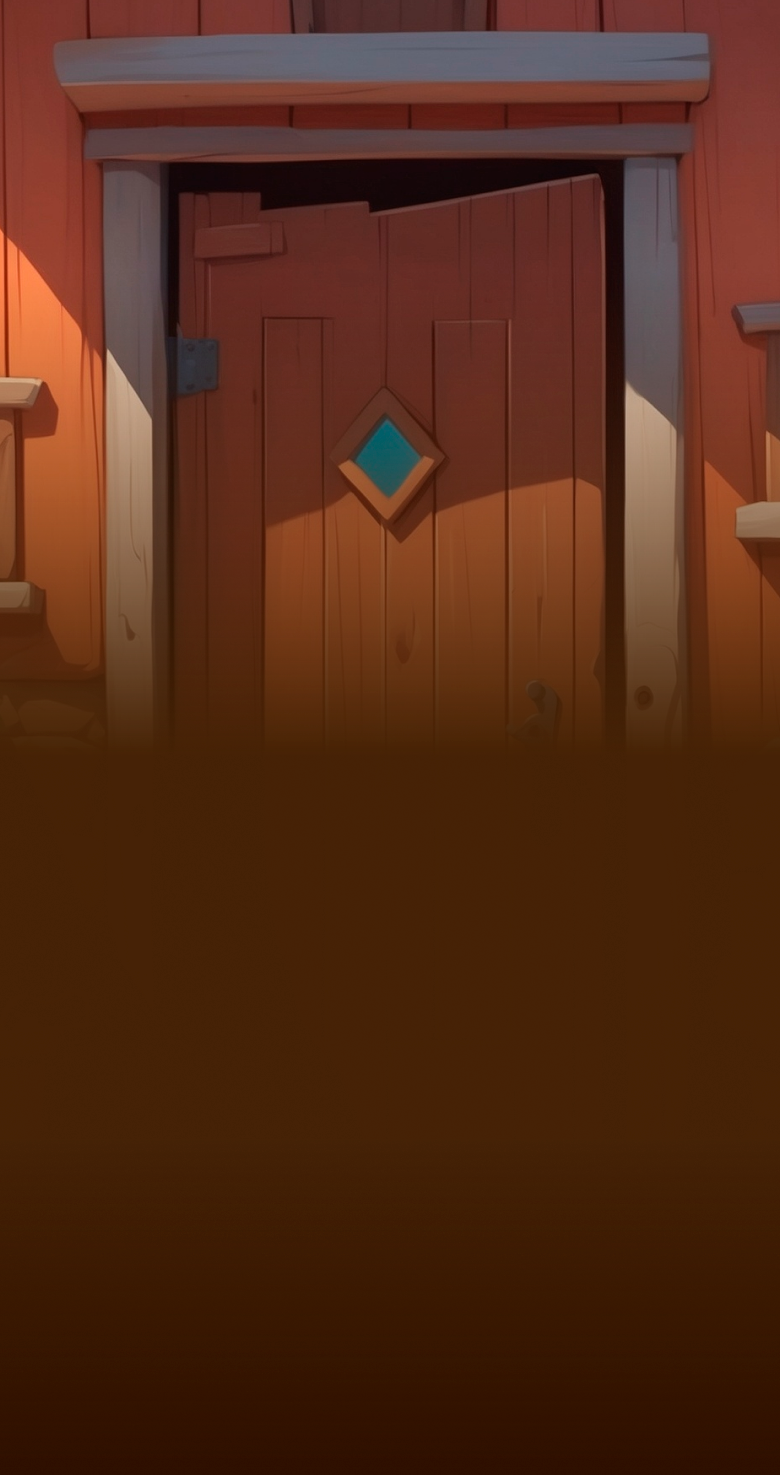
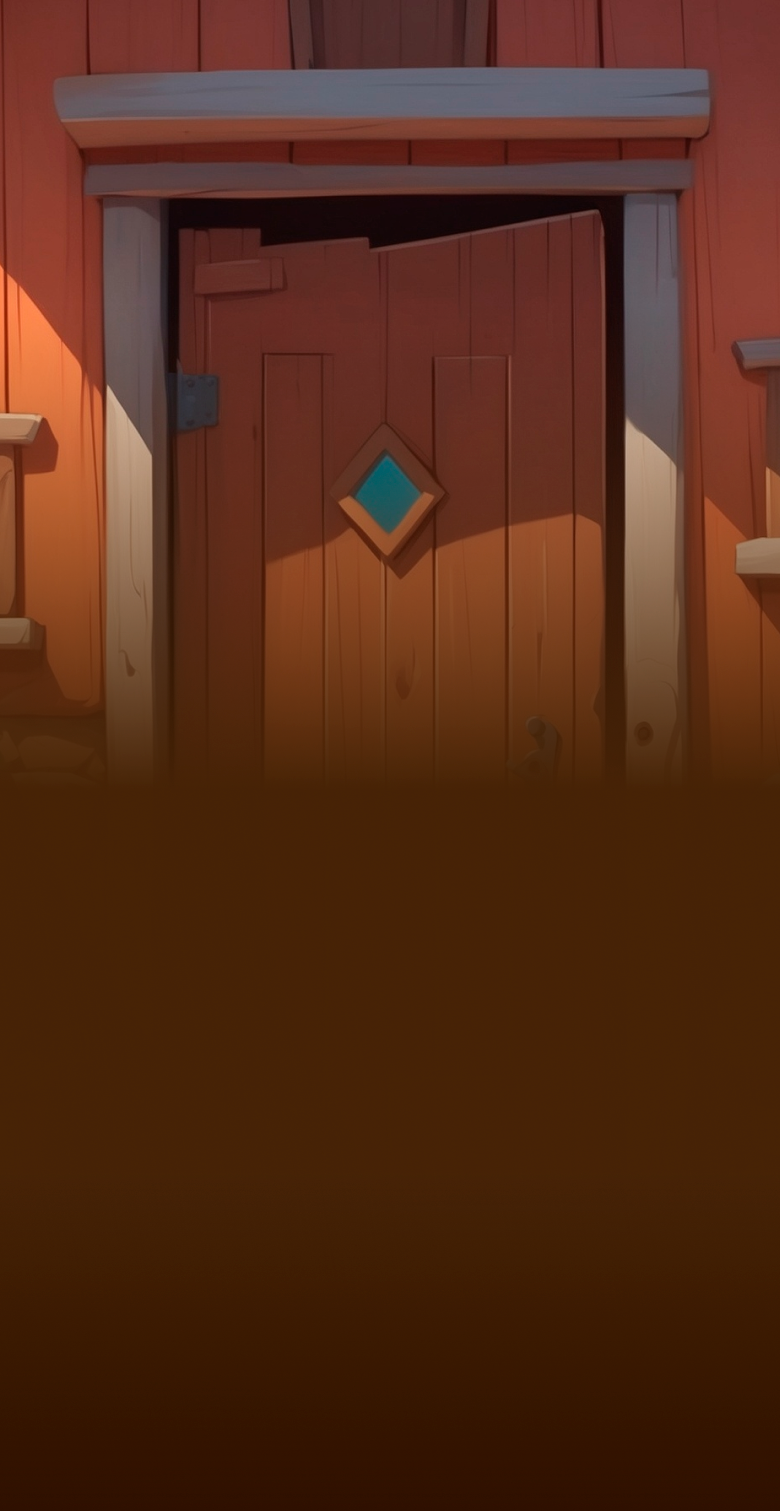
transaction history page finished, added deposit page and withdraw page (work in progress)

diff --git a/website/static/css/style.css b/website/static/css/style.css
@@ -269,12 +269,31 @@
         margin-top: 2%;
     }
     #storage-page {
-        background-image: url(../img/storage-bg.png);
+        background-image: url(../img/c1fc20933dd6265e0c9f0cec8ddc7a6d.jfif);
         background-position: center;
         background-size: cover;
         background-repeat: no-repeat;
         padding: 5% 0;
         position: relative;
+    }
+    .storage-page-gradient {
+        position: absolute;
+        content: '';
+        top: 0;
+        bottom: 0;
+        left: 0;
+        right: 0;
+        background: linear-gradient(to bottom, rgba(65, 40, 16, 0) 50%, rgba(65, 40, 16, 1) 100%);
+        height: 50vh;
+    }
+    .storage-page-gradient-2nd {
+        position: absolute;
+        content: '';
+        top: 49vh;
+        bottom: 0;
+        left: 0;
+        right: 0;
+        background-color: rgba(65, 40, 16, 1);
     }
     .storage-nav {
         display: flex;
@@ -549,6 +568,7 @@
         width: 43%;
         position: relative;
         padding: 4% 3%;
+        height: 17vh;
     }
     /* .products li::before {
         content: '';
@@ -568,7 +588,7 @@
         position: absolute;
     }
     .market-buy-container {
-        margin-top: 60%;
+        margin-top: auto;
         z-index: 2;
         width: 100%;
         justify-content: space-between;
@@ -598,6 +618,7 @@
     #storage-page footer {
         position: relative;
         z-index: 2;
+        margin: 0 5%;
     }
     .chicken-market {
         display: none
@@ -1247,7 +1268,7 @@
     .nftmarket-active {
         display: block;
     }
-    #wallet-page {
+    #wallet-page, #transaction-history-page, #withdraw-page, #deposit-page {
         background-color: #412810;
     }
     .wallet-navigation {
@@ -1378,6 +1399,180 @@
         height: 33vh;
         overflow-y: scroll;
         display: none; 
+    }
+    #transaction-history-page > header > h2 {
+        font-size: 24px;
+        font-weight: 300;
+        text-align: center;
+    }
+    #transaction-history-page > header > nav {
+        display: flex;
+        justify-content: space-around;
+    }
+    .transaction-history-switch {
+        color: white;
+        opacity: 0.6;
+        font-weight: 200;
+        font-size: 14px;
+        width: 50%;
+        text-align: center;
+        border-bottom: 1px solid rgba(255, 255, 255, 0.6);
+        padding: 1% 0;
+    }
+    .transaction-history-switch-active {
+        opacity: 1;
+    }
+    .transaction-history-general > ul {
+        margin: 0;
+        padding: 0;
+    }
+    .transaction-history-general > ul > li {
+        list-style-type: none;
+        padding: 2% 0%;
+        border-bottom: 1px solid rgba(255, 255, 255, 0.2);
+    }
+    .transaction-history-deposit-option {
+        display: flex;
+        justify-content: space-between;
+        align-items: center;
+    }
+    .transaction-history-deposit-option h2 {
+        margin: 0;
+        font-weight: 200;
+        margin-bottom: 2%;
+        font-size: 16px;
+    }
+    .transaction-history-deposit-option p {
+        font-weight: 200;
+        font-size: 10px;
+    }
+    .transaction-history-deposit-option h3 {
+        color: rgba(255, 255, 255, 0.6);
+        font-size: 16px;
+        font-weight: 200;
+    }
+    .transaction-history-general li > div:last-of-type {
+        display: flex;
+        justify-content: space-between;
+        align-items: center;
+        margin-top: 3%;
+    }
+    .transaction-history-general .token-text-container {
+        margin-top: 0;
+    }
+    .transaction-status {
+        font-size: 12px;
+        font-weight: 300;
+        background-color: rgba(254, 136, 28, 0.1);
+        padding: 2% 2%;
+        border-radius: 4px;
+    }
+    .transaction-outcome span {
+        color: #FFFFFF;
+        font-size: 14px;
+    }
+    .transaction-outcome img {
+        width: 25px;
+        height: 25px;
+    }
+    .transaction-income img {
+        width: 25px;
+        height: 25px;
+    }
+    .transaction-income span {
+        color: #FFFFFF;
+        font-size: 14px;
+    }
+    .transaction-income {
+        background-color: rgba(254, 136, 28, 0.1);
+        padding: 1.5% 2%;
+        border-radius: 4px;
+        width: 20%;
+    }
+    .transaction-history-general {
+        background-color: rgba(254, 136, 28, 0.1);
+        border-radius: 16px;
+        padding: 5% 5%;
+        margin-top: 5%;
+        height: 67vh;
+        overflow-y: scroll;
+        display: none;
+    }
+    .transaction-history-general-active {
+        display: block;
+    }
+    .buy-energy-container {
+        height: 58vh;
+        overflow-y: scroll;
+    }
+    .energy-boost {
+        background: #412810;
+        padding: 4% 4%;
+        border-radius: 16px;
+        box-shadow: inset 0px 1px 2px rgba(255, 255, 255, 0.4), 0px 2px 4px 0px rgba(0, 0, 0, 0.3);
+        width: 90%;
+        z-index: 2;
+        position: relative;
+    }
+    .energy-switch-switcher li:first-of-type {
+        margin-bottom: 1%;
+    }
+    .energy-flat-container > div:first-of-type {
+        display: flex;
+        justify-content: space-between;
+        align-items: center;
+    }
+    #energy-flat-input {
+        border: 1px solid rgba(255, 255, 255, 0.2);
+        background-color: unset;
+        border-radius: 16px;
+        padding: 2%;
+        font-family: 'Balsamiq Sans';
+        color: white;
+        width: 100%;
+        font-weight: 200;
+        font-size: 18px;
+    }
+    .energy-flat-input-container {
+        padding: 0 3%;
+        border-right: 1px solid rgba(255, 255, 255, 0.5);
+        border-left: 1px solid rgba(255, 255, 255, 0.5);
+        height: 30px;
+        display: flex;
+        align-items: center;
+        width: 60%;
+    }
+    .energy-flat-container h3 {
+        font-size: 12px;
+        opacity: 0.6;
+    }
+    .energy-cost-container {
+        border-radius: 0;
+        box-shadow: unset;
+        position: relative;
+        top: -12px;
+        z-index: 1;
+        border-bottom-left-radius: 16px;
+        border-bottom-right-radius: 16px;
+        display: flex;
+        justify-content: space-between;
+        padding-top: 7%;
+    }
+    .energy-cost-container > div:last-of-type {
+        background: linear-gradient(135deg, #FD902B 0%, #FFBA34 100%);
+        display: flex;
+        align-items: center;
+        justify-content: center;
+        border: 1px solid white;
+        border-radius: 4px;
+        padding: 2% 3%;
+    }
+    .energy-cost-container .token-text-container {
+        margin-top: 0;
+    }
+    .energy-cost-container span {
+        color: white;
+        font-size: 24px;
     }
 }
 

diff --git a/website/templates/storage_page.html b/website/templates/storage_page.html
@@ -1,4 +1,6 @@
     <section class="section" id="storage-page">
+        <div class="storage-page-gradient"></div>
+        <div class="storage-page-gradient-2nd"></div>
         <header>
             <nav class="storage-nav">
                 <div class="storage-navpoint" id="egg-navpoint">
@@ -47,23 +49,32 @@
         </header>
         <main>
             <div class="energy-switch">
-                <span href="" class="balsamiq" id="energy-switch-energy">Energy</span>
-                <span href="" class="balsamiq  storage-switch-active" id="energy-switch-chicken">Chicken</span>
+                <span href="" class="balsamiq storage-switch-active" id="energy-switch-energy">Energy</span>
+                <span href="" class="balsamiq" id="energy-switch-chicken">Chicken</span>
             </div>
             <div>
-                <div class="energy-switch-switcher" id="buy-energy-section">
+                <div class="energy-switch-switcher energy-switch-switcher-active buy-energy-container" id="buy-energy-section">
                     <div class="boost-string-container">
                         <li><div><img src="{{ url_for('static', filename='img/energy-upgrade.png') }}" alt=""><h4 class="balsamiq">Buy more energy</h4></div><div><h4 class="balsamiq">64.567</h4><img src="{{ url_for('static', filename='img/token.png') }}" alt=""></div><img src="{{ url_for('static', filename='img/button raise up.png') }}" alt=""></li>
+                        <div class="energy-boost energy-flat-container">
+                            <div>
+                                <img src="../static/img/energy-upgrade.png" alt="">
+                                <div class="energy-flat-input-container"><input type="number" max="1000" id="energy-flat-input" placeholder="Type amount of energy"></div>
+                                <h3 class="balsamiq">Max 1000</h3>
+                            </div>
+                        </div>
+                        <div class="energy-boost energy-cost-container">
+                            <div class="token-text-container"><img src="../static/img/token.png" alt=""><span class="balsamiq">55905</span></div>
+                            <div class="balsamiq">Buy &nbsp; <img src="../static/img/point no bg.png" alt=""></div>
+                        </div>
                         <div class="boost-string"></div>
                         <li><div><img src="{{ url_for('static', filename='img/buy-corn.png') }}" alt=""><h4 class="balsamiq">Boost energy limit</h4></div><div><h4 class="balsamiq">64,567</h4><img src="{{ url_for('static', filename='img/token.png') }}" alt=""></div><img src="{{ url_for('static', filename='img/button raise up.png') }}" alt=""></li>
                         <li><div><img src="{{ url_for('static', filename='img/raise-balance.png') }}" alt=""><h4 class="balsamiq">Energy per tap</h4></div><div><h4 class="balsamiq">64,567</h4><img src="{{ url_for('static', filename='img/token.png') }}" alt=""></div><img src="{{ url_for('static', filename='img/button raise up.png') }}" alt=""></li>
                         <div class="boost-string"></div>
                         <li><div><img src="{{ url_for('static', filename='img/autoenergy.png') }}" alt=""><h4 class="balsamiq">Autoclick</h4></div><div><h4 class="balsamiq">64,567</h4><img src="{{ url_for('static', filename='img/token.png') }}" alt=""></div><img src="{{ url_for('static', filename='img/button raise up.png') }}" alt=""></li>
                     </div>
-                    <div>
-                    </div>
                 </div>
-                <div class="energy-switch-switcher energy-switch-switcher-active" id="buy-chicken-section">
+                <div class="energy-switch-switcher" id="buy-chicken-section">
                     <nav>
                         <h4 class="balsamiq" id="my-chickens">My chickens</h4>
                         <h4 class="balsamiq chicken-market-switch-active" id="chickens-market">Chicken market</h4>

diff --git a/website/templates/transaction-history_page.html b/website/templates/transaction-history_page.html
@@ -1,0 +1,63 @@
+<section class="section  active" id="transaction-history-page">
+    <header>
+        <h2 class="balsamiq">Transaction History</h2>
+        <nav>
+            <h3 class="balsamiq switch transaction-history-switch  transaction-history-switch-active">Deposit</h3>
+            <h3 class="balsamiq switch transaction-history-switch">Withdraw</h3>
+            <h3 class="balsamiq switch transaction-history-switch">Exchange</h3>
+        </nav>
+    </header>
+    <main class="main active-main">
+        <div class="transaction-history-deposit-container transaction-history-general  transaction-history-general-active">
+            <ul>
+                <li>
+                    <div class="transaction-history-deposit-option">
+                        <div>
+                            <h2 class="balsamiq">TON</h2>
+                            <p class="balsamiq">20-03-2024, 18:00</p>
+                        </div>
+                        <h3 class="balsamiq">+ 507, 981,000</h3>
+                    </div>
+                    <div>
+                        <div class="balsamiq transaction-status">Processing</div>
+                        <div class="transaction-income">
+                            <div class="token-text-container">
+                                <img src="{{ url_for('static', filename='img/token.png') }}" alt="">
+                                <span class="roboto">+3485</span>
+                            </div>
+                        </div>
+                    </div>
+                </li>
+            </ul>
+        </div>
+        <div class="transaction-history-general transaction-history-withdraw-container">
+            <ul>
+                <li>
+                    <div class="transaction-history-deposit-option">
+                        <div>
+                            <h2 class="balsamiq">TON</h2>
+                            <p class="balsamiq">20-03-2024, 18:00</p>
+                        </div>
+                        <h3 class="balsamiq">+ 507, 981,000</h3>
+                    </div>
+                    <div>
+                        <div class="balsamiq transaction-status">Processing</div>
+                        <div class="transaction-outcome">
+                            <div class="token-text-container">
+                                <img src="{{ url_for('static', filename='img/token.png') }}" alt="">
+                                <span class="roboto">+3485</span>
+                            </div>
+                        </div>
+                    </div>
+                </li>
+            </ul>
+        </div>
+    </main>
+    <footer class="footer tap-bar">
+        <div class="footer-nav active" id="nft-button"><img src="{{ url_for('static', filename='img/nft 4.png') }}" alt=""> <h4 class="balsamiq">NFT</h4></div>
+        <div class="footer-nav" id="storage-button"><img src="{{ url_for('static', filename='img/storage.png') }}" alt=""> <h4 class="balsamiq">Storage</h4></div>
+        <div class="footer-nav" id="main-button"><img src="{{ url_for('static', filename='img/eggmine.png') }}" alt=""> <h4 class="balsamiq">Main</h4></div>
+        <div class="footer-nav" id="earn-button"><img src="{{ url_for('static', filename='img/cash.png') }}" alt=""> <h4 class="balsamiq">Earn</h4></div>
+        <div class="footer-nav" id="wallet-button"><img src="{{ url_for('static', filename='img/wallet.png') }}" alt=""> <h4 class="balsamiq">Wallet</h4></div>
+    </footer>
+</section>

diff --git a/website/templates/wallet_page.html b/website/templates/wallet_page.html
@@ -1,4 +1,4 @@
-    <section class="section active" id="wallet-page">
+    <section class="section" id="wallet-page">
         <nav>
             <ul class="wallet-navigation">
                 <li id="overview-nav" class="wallet-navpoint wallet-navpoint-active balsamiq" data-target="wallet-general" >Overview</li>

diff --git a/website/templates/index.html b/website/templates/index.html
@@ -6,4 +6,7 @@
     {% include 'earn_page.html' %}
     {% include 'nft_page.html' %}
     {% include 'wallet_page.html'%}
+    {% include 'transaction-history_page.html' %}
+    {% include 'deposit_page.html' %}
+    {% include 'withdraw_page.html' %}
 {% endblock %}
